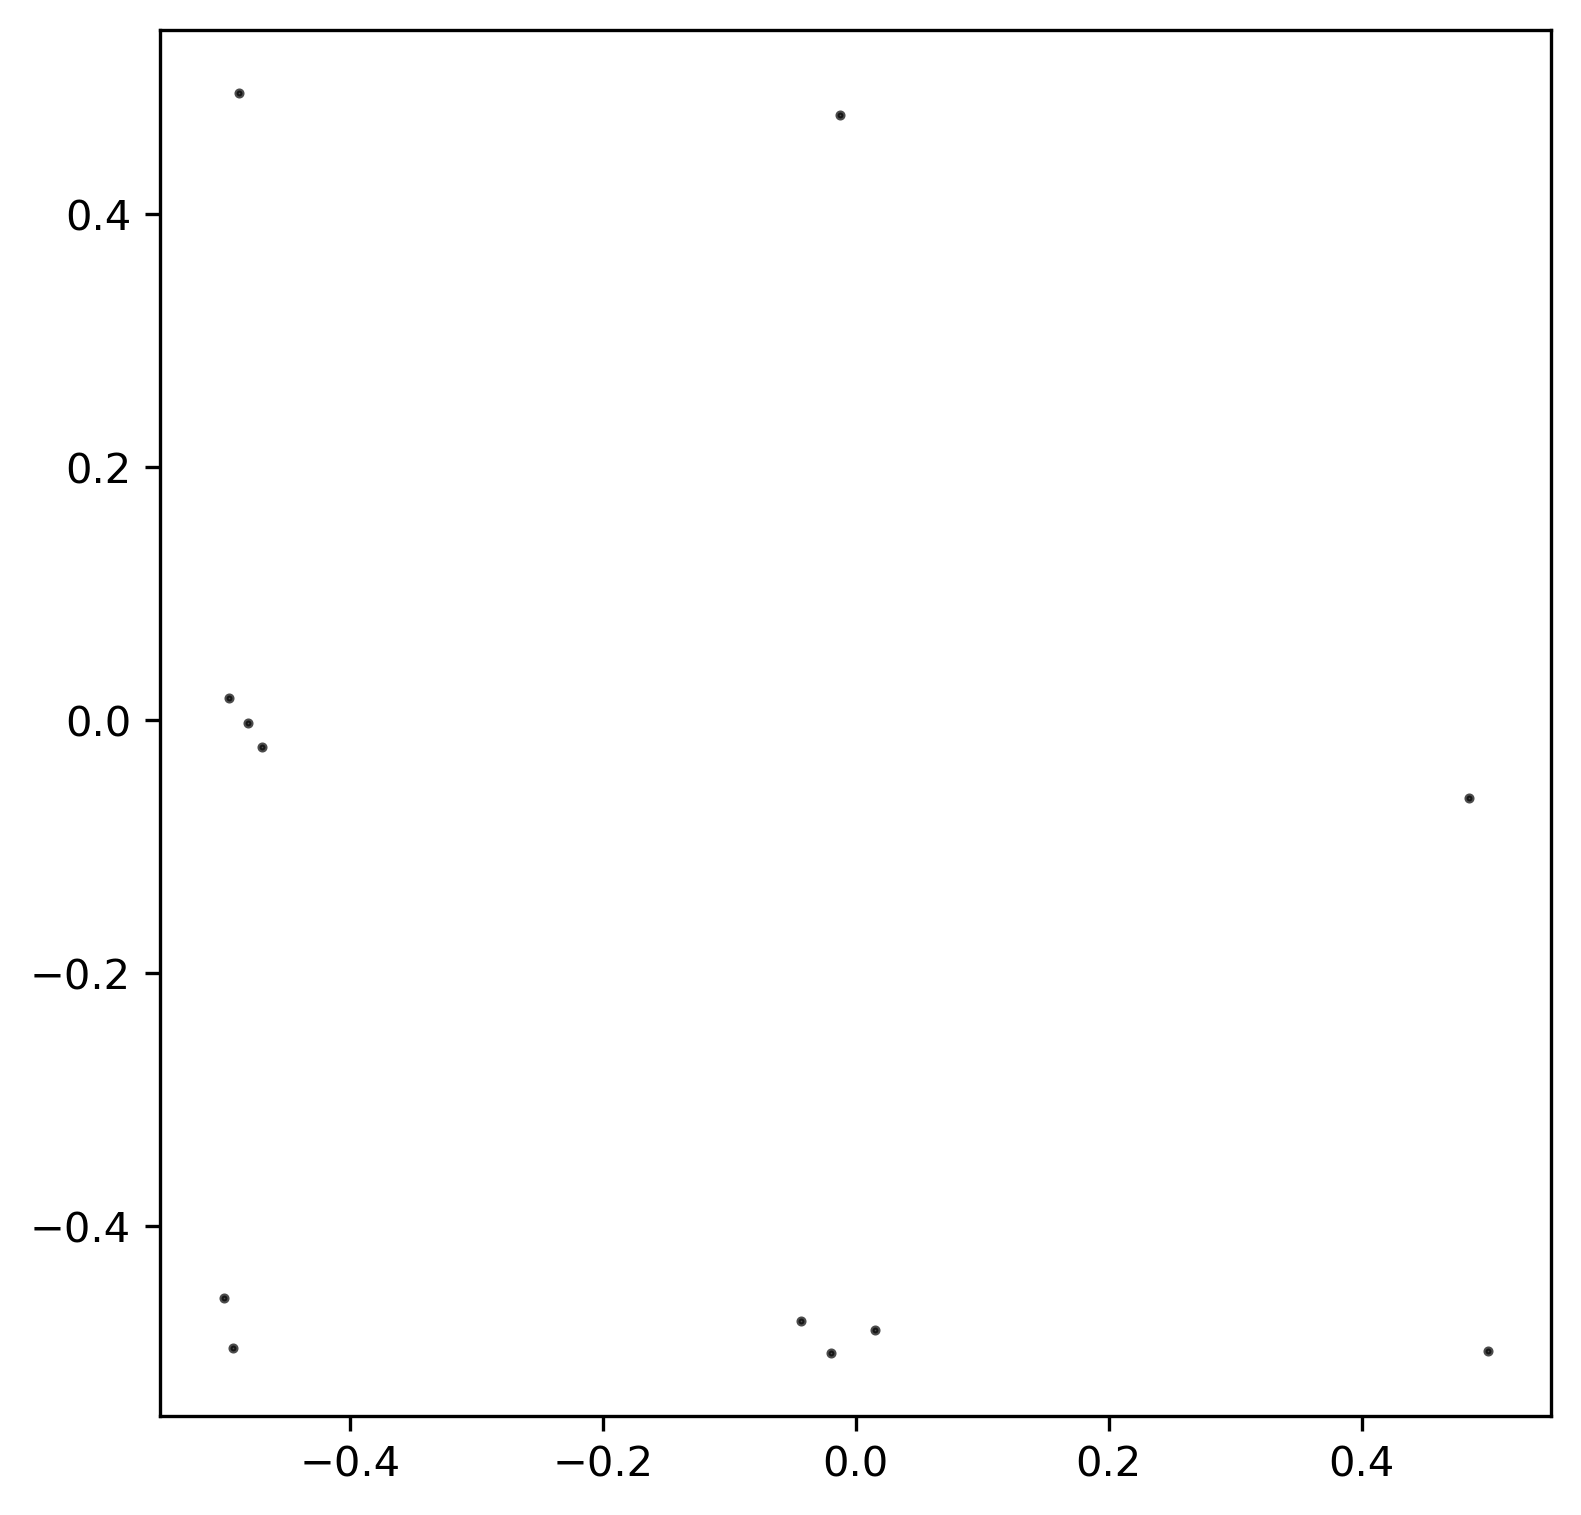
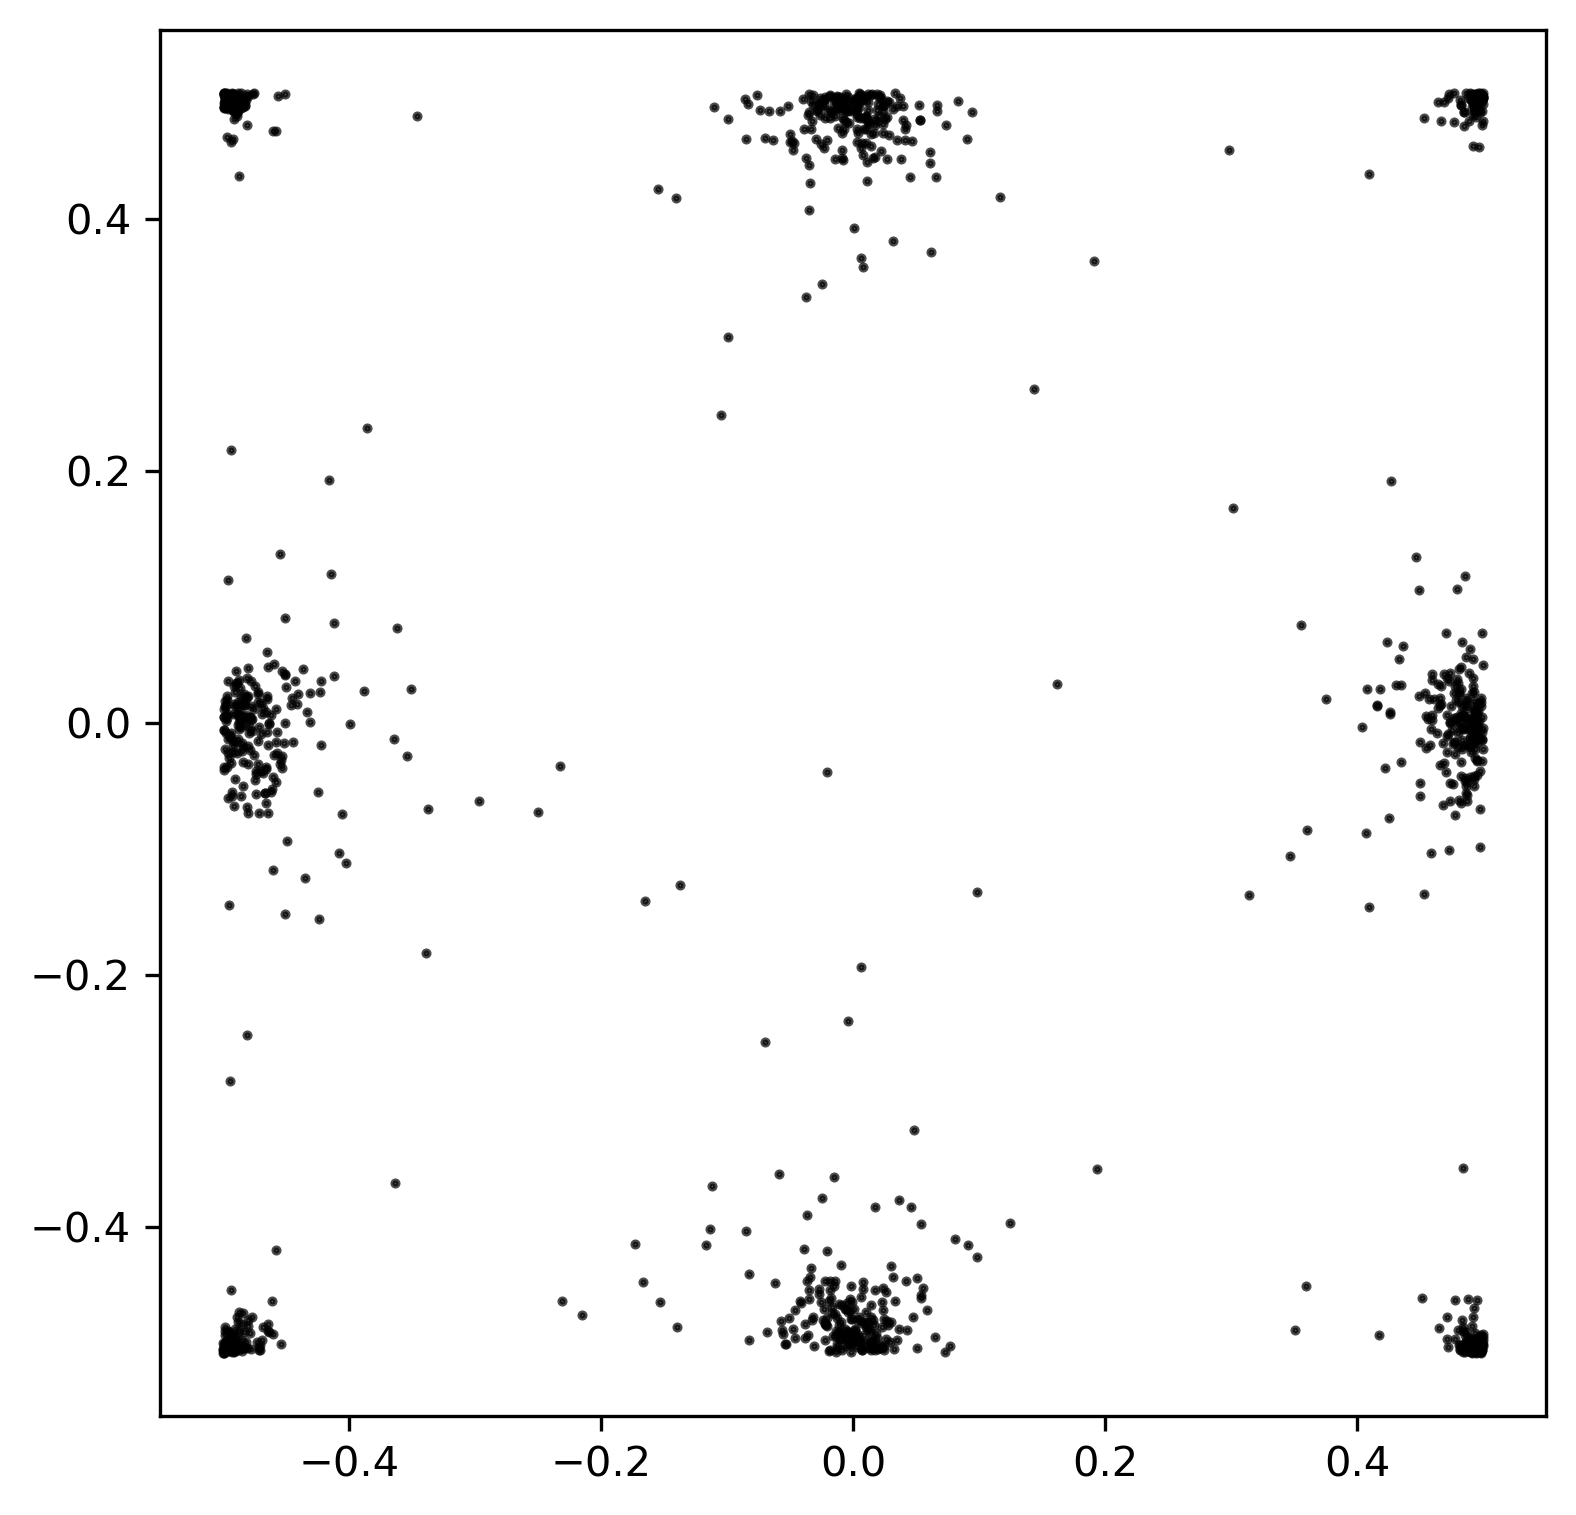
readme updates

diff --git a/IPS/run_CICY_IPS.m b/IPS/run_CICY_IPS.m
@@ -16,7 +16,7 @@ exponents = {{{1,0,2}, {0,3,0}, {2,1,0}}};
 
 (* Generate points *)
 {points, weights, omegas, kappas, {dimCY}} = GeneratePointsMCICYIPS[
-    100,      (* total points *)
+    10000,      (* total points *)
     5,         (* regions *)
     dimPs,
     coefficients,

diff --git a/README.md b/README.md
@@ -2,9 +2,14 @@
 
 This repository is a code base that generates points on Complete Intersection Calabi-Yau (CICY) manifolds using the Improved Point Sampling (IPS) method from [Keller-Lukic](https://arxiv.org/abs/0907.1387). This repository is intended to be added to the sampling code that exists for [`cymetric`](https://github.com/ruehlef/cymetric). 
 
-In the images below, you see the current sampling ability of the `cymetric` code on the left using just a single Fubini-Study metric. On the right, you see the sampling ability of this implementation IPS. This code is a working progress.
+In the image below, you see the current sampling ability of the `cymetric` code. In order to sample points on the CICY, this code base uses the Fubini-Study metric of the complex projective space in which the CICY lives. In the case of the Weierstrass cubic, we can visualize how well the code samples the Weierstrass in uniform Abel-Jacobi coordinates:
 
 <p align="center">
-  <img src="cymetric/weierstrass_cubic/uniform_weierstrass_cubic.png" alt="Example 1" width="240" />
-  <img src="IPS/uniform_weierstrass_cubic_ips.png" alt="Example 2" width="240" />
+  <img src="cymetric/weierstrass_cubic/uniform_weierstrass_cubic.png" alt="cymetric" width="240" />
+</p>
+
+The sampling method used to create the image above was applied in to calculate the CY metric [in this paper](https://arxiv.org/abs/2205.13408). Although this sampling was used to compute the Ricci-flat CY metric, we aim to sample the CYs more effectively using the IPS method from the Keller-Lukic paper. Below, the sampling ability of the IPS implementation is shown. This code is a work in progress.
+
+<p align="center">
+  <img src="IPS/uniform_weierstrass_cubic_ips.png" alt="ips" width="240" />
 </p>
